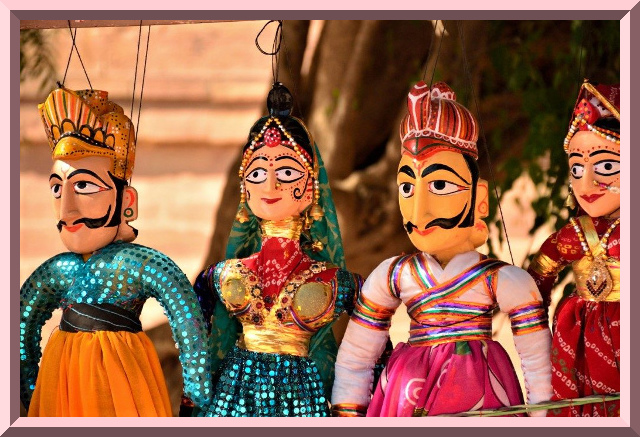
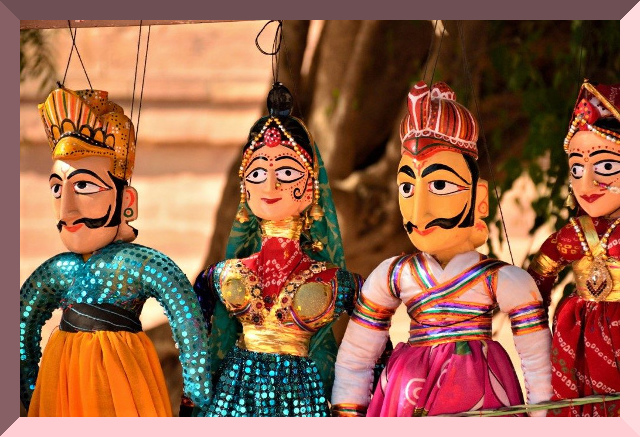
New frame type added

Changed region(s): [[0.0, 0.0, 1.0, 1.0]]

diff --git a/lib/magick_filter.rb b/lib/magick_filter.rb
@@ -4,17 +4,17 @@ require "filter"
 module MagickFilter
   class Tool
     def self.process(path='', effect='')
-      parameter_missing?(path, effect)
+      parameter_missing?(path, effect, "effect")
       parse_if_image(path)
       out_file = build_out_file_name(path)
       out_file = cmd_convert(path, out_file, effect)
     end
 
-    def self.apply_frame(path='', color_type='')
-      parameter_missing?(path, color_type)
+    def self.apply_frame(path='', color_type='', frame_style=nil)
+      parameter_missing?(path, color_type, "frame")
       parse_if_image(path)
       out_file = build_out_file_name(path)
-      out_file = cmd_convert_frame(path, out_file, color_type)
+      out_file = cmd_convert_frame(path, out_file, color_type, frame_style)
     end
 
     def self.root
@@ -32,15 +32,20 @@ module MagickFilter
       end
     end
 
-    def self.parameter_missing?(path, effect)
-      if path.blank? && effect.blank?
-        err = "***************Image Path and Effect Parameter Missing***********"
-      elsif path.blank?
-        err = "***************Image Path Missing***********"
-      elsif effect.blank?
-        err = "***************Effect Parameter Missing***********"
-      end	
-      return false
+    def self.parameter_missing?(path, effect, called_for)
+    	err = ''
+  		if path.blank? && effect.blank?
+      	err = "***************Image Path and Effect or Frame Color Parameter Missing***********"
+    	elsif path.blank?
+      	err = "***************Image Path Missing***********"
+    	elsif effect.blank?
+      	err = "***************Effect or Frame Color Parameter Missing***********"
+    	end	
+      if err.blank? 
+      	return false 
+ 			else
+ 				raise "#{err}"
+ 			end	
     end
 
     def self.cmd(bin, opts)
@@ -55,13 +60,13 @@ module MagickFilter
       #in_file ||= current_source_file
       #out_file ||= current_target_file
       cmd(:convert, "#{in_file} #{get_effect_options(opts)} #{out_file}")
-      print "***Your file is available here to copy in desired location*** - #{out_file}"
+      print "***Your Image is available here to copy at desired location*** - #{out_file}"
       return out_file
     end
 
-    def self.cmd_convert_frame(in_file=nil, out_file=nil, opts)
-      cmd(:convert, "#{in_file} #{get_frame_type(opts)} #{out_file}")
-      print "***Your file is available here to copy in desired location*** - #{out_file}"
+    def self.cmd_convert_frame(in_file=nil, out_file=nil, opt1, opt2)
+      cmd(:convert, "#{in_file} #{get_frame_type(opt1, opt2)} #{out_file}")
+      print "***Your Image is available here to copy at desired location*** - #{out_file}"
       return out_file
     end
 
@@ -81,8 +86,10 @@ module MagickFilter
       Filter::EFFECT_MAP[effect.downcase.to_sym]
     end
 
-    def self.get_frame_type(color_type)
-      Filter::FRAME_TYPE.gsub("Tomato", color_type)
+    def self.get_frame_type(color_type, frame_style)
+    	frame_style ||= "basic"
+    	frame_type = Filter::FRAME_TYPE[frame_style.downcase.to_sym]
+      frame_type = frame_type.gsub("Tomato", color_type)
     end
   end
 end

diff --git a/lib/filter.rb b/lib/filter.rb
@@ -12,9 +12,10 @@ module Filter
  	              rough: "-dither FloydSteinberg -colors 8",
  	              sepia: "-sepia-tone 80%"}
 
- 	FRAME_TYPE = "-mattecolor Tomato -frame 20x20+10+10"              
+ 	FRAME_TYPE = {basic: "-mattecolor Tomato -frame 20x20+10+10", sunken: "-mattecolor Tomato -frame 20x20+0+20" }              
 
-	WRITE_PATH = "/tmp" 	
+	WRITE_PATH = "/tmp" 
+
 end
 
 

diff --git a/README.md b/README.md
@@ -26,20 +26,40 @@ Or install it yourself as:
     $ gem install magick_filter
 
 ## Usage
-1. Latest version of this Gem supports adding frame to photo with different colors. You can choose any desired color for frame from [ImageMagick color list](https://www.imagemagick.org/script/color.php)
+1. Latest version of this Gem supports adding frames to photo with different colors. You can choose any desired color for frame from [ImageMagick color list](https://www.imagemagick.org/script/color.php)
+	```ruby
+	MagickFilter::Tool.apply_frame(image_path, frame_color, frame_type)	
+	```    
+
     ```ruby
-	a) MagickFilter::Tool.apply_frame(image_path, "snow")
-	b) MagickFilter::Tool.apply_frame(image_path, "LightPink")
-	c) MagickFilter::Tool.apply_frame(image_path, "SlateBlue1")
-	d) MagickFilter::Tool.apply_frame(image_path, "SpringGreen4")
+    a) Option 1st => Basic Frame
+    	MagickFilter::Tool.apply_frame(image_path, "snow", "basic")
+    b) Option 2nd => Sunken Frame
+    	MagickFilter::Tool.apply_frame(image_path, "snow", "sunken")			 
     ```
+    ```ruby
+    Different color options example - 
+	a) MagickFilter::Tool.apply_frame(image_path, "snow", "basic")
+	b) MagickFilter::Tool.apply_frame(image_path, "LightPink", "BASIC")
+	c) MagickFilter::Tool.apply_frame(image_path, "SlateBlue1", :basic)
+    ```
+
+### Default frame type is "basic", frame_type is case insensitive. You can add "basic", "BASIC" or :basic    
+
 2. In present there are 12 filters available in this Gem. Use the given below commands ( from Filter Examples section ) on console to convert photos.
     ```ruby
+    MagickFilter::Tool.process(image_path, filter_type)
+    ```
+
+    ```ruby
 	a) MagickFilter::Tool.process(image_path, "sketch")
-	b) MagickFilter::Tool.process(image_path, "bright")
-	c) MagickFilter::Tool.process(image_path, "sepia")
+	b) MagickFilter::Tool.process(image_path, "BRIGHT")
+	c) MagickFilter::Tool.process(image_path, :sepia)
 	d) MagickFilter::Tool.process(image_path, "rough")
     ```
+
+### Filter type is case insensitive, you can add "sketch", "SKETCH" or :sketch  
+
 ## Frame Examples
 
 ### Original Image
@@ -47,33 +67,33 @@ Or install it yourself as:
 <img src="/test_image/test.jpg" alt="Original" width=450 height=298 />
 
 
-### Snow Color Frame
+### Snow Color Frame with basic frame
 
-**`MagickFilter::Tool.apply_frame(image_path, "snow")`**
+**`MagickFilter::Tool.apply_frame(image_path, "snow", "basic")`**
 
 
 <img src="/test_image/snow.jpg" alt="snow" width=450 height=298 />
 
 
-### LightPink Color Frame
+### LightPink Color Frame with sunken frame
 
-**`MagickFilter::Tool.apply_frame(image_path, "LightPink")`**
+**`MagickFilter::Tool.apply_frame(image_path, "LightPink", "sunken")`**
 
 
 <img src="/test_image/lightpink.jpg" alt="LightPink" width=450 height=298 />
 
 
-### Orchid1 Color Frame
+### Orchid1 Color Frame with basic frame
 
-**`MagickFilter::Tool.apply_frame(image_path, "orchid1")`**
+**`MagickFilter::Tool.apply_frame(image_path, "orchid1", "basic")`**
 
 
 <img src="/test_image/orchid1.jpg" alt="orchid1" width=450 height=298 />
 
 
-### SlateBlue1 Color Frame
+### SlateBlue1 Color Frame with sunken frame
 
-**`MagickFilter::Tool.apply_frame(image_path, "SlateBlue1")`**
+**`MagickFilter::Tool.apply_frame(image_path, "SlateBlue1", "sunken")`**
 
 
 <img src="/test_image/slateblue1.jpg" alt="SlateBlue1" width=450 height=298 />
